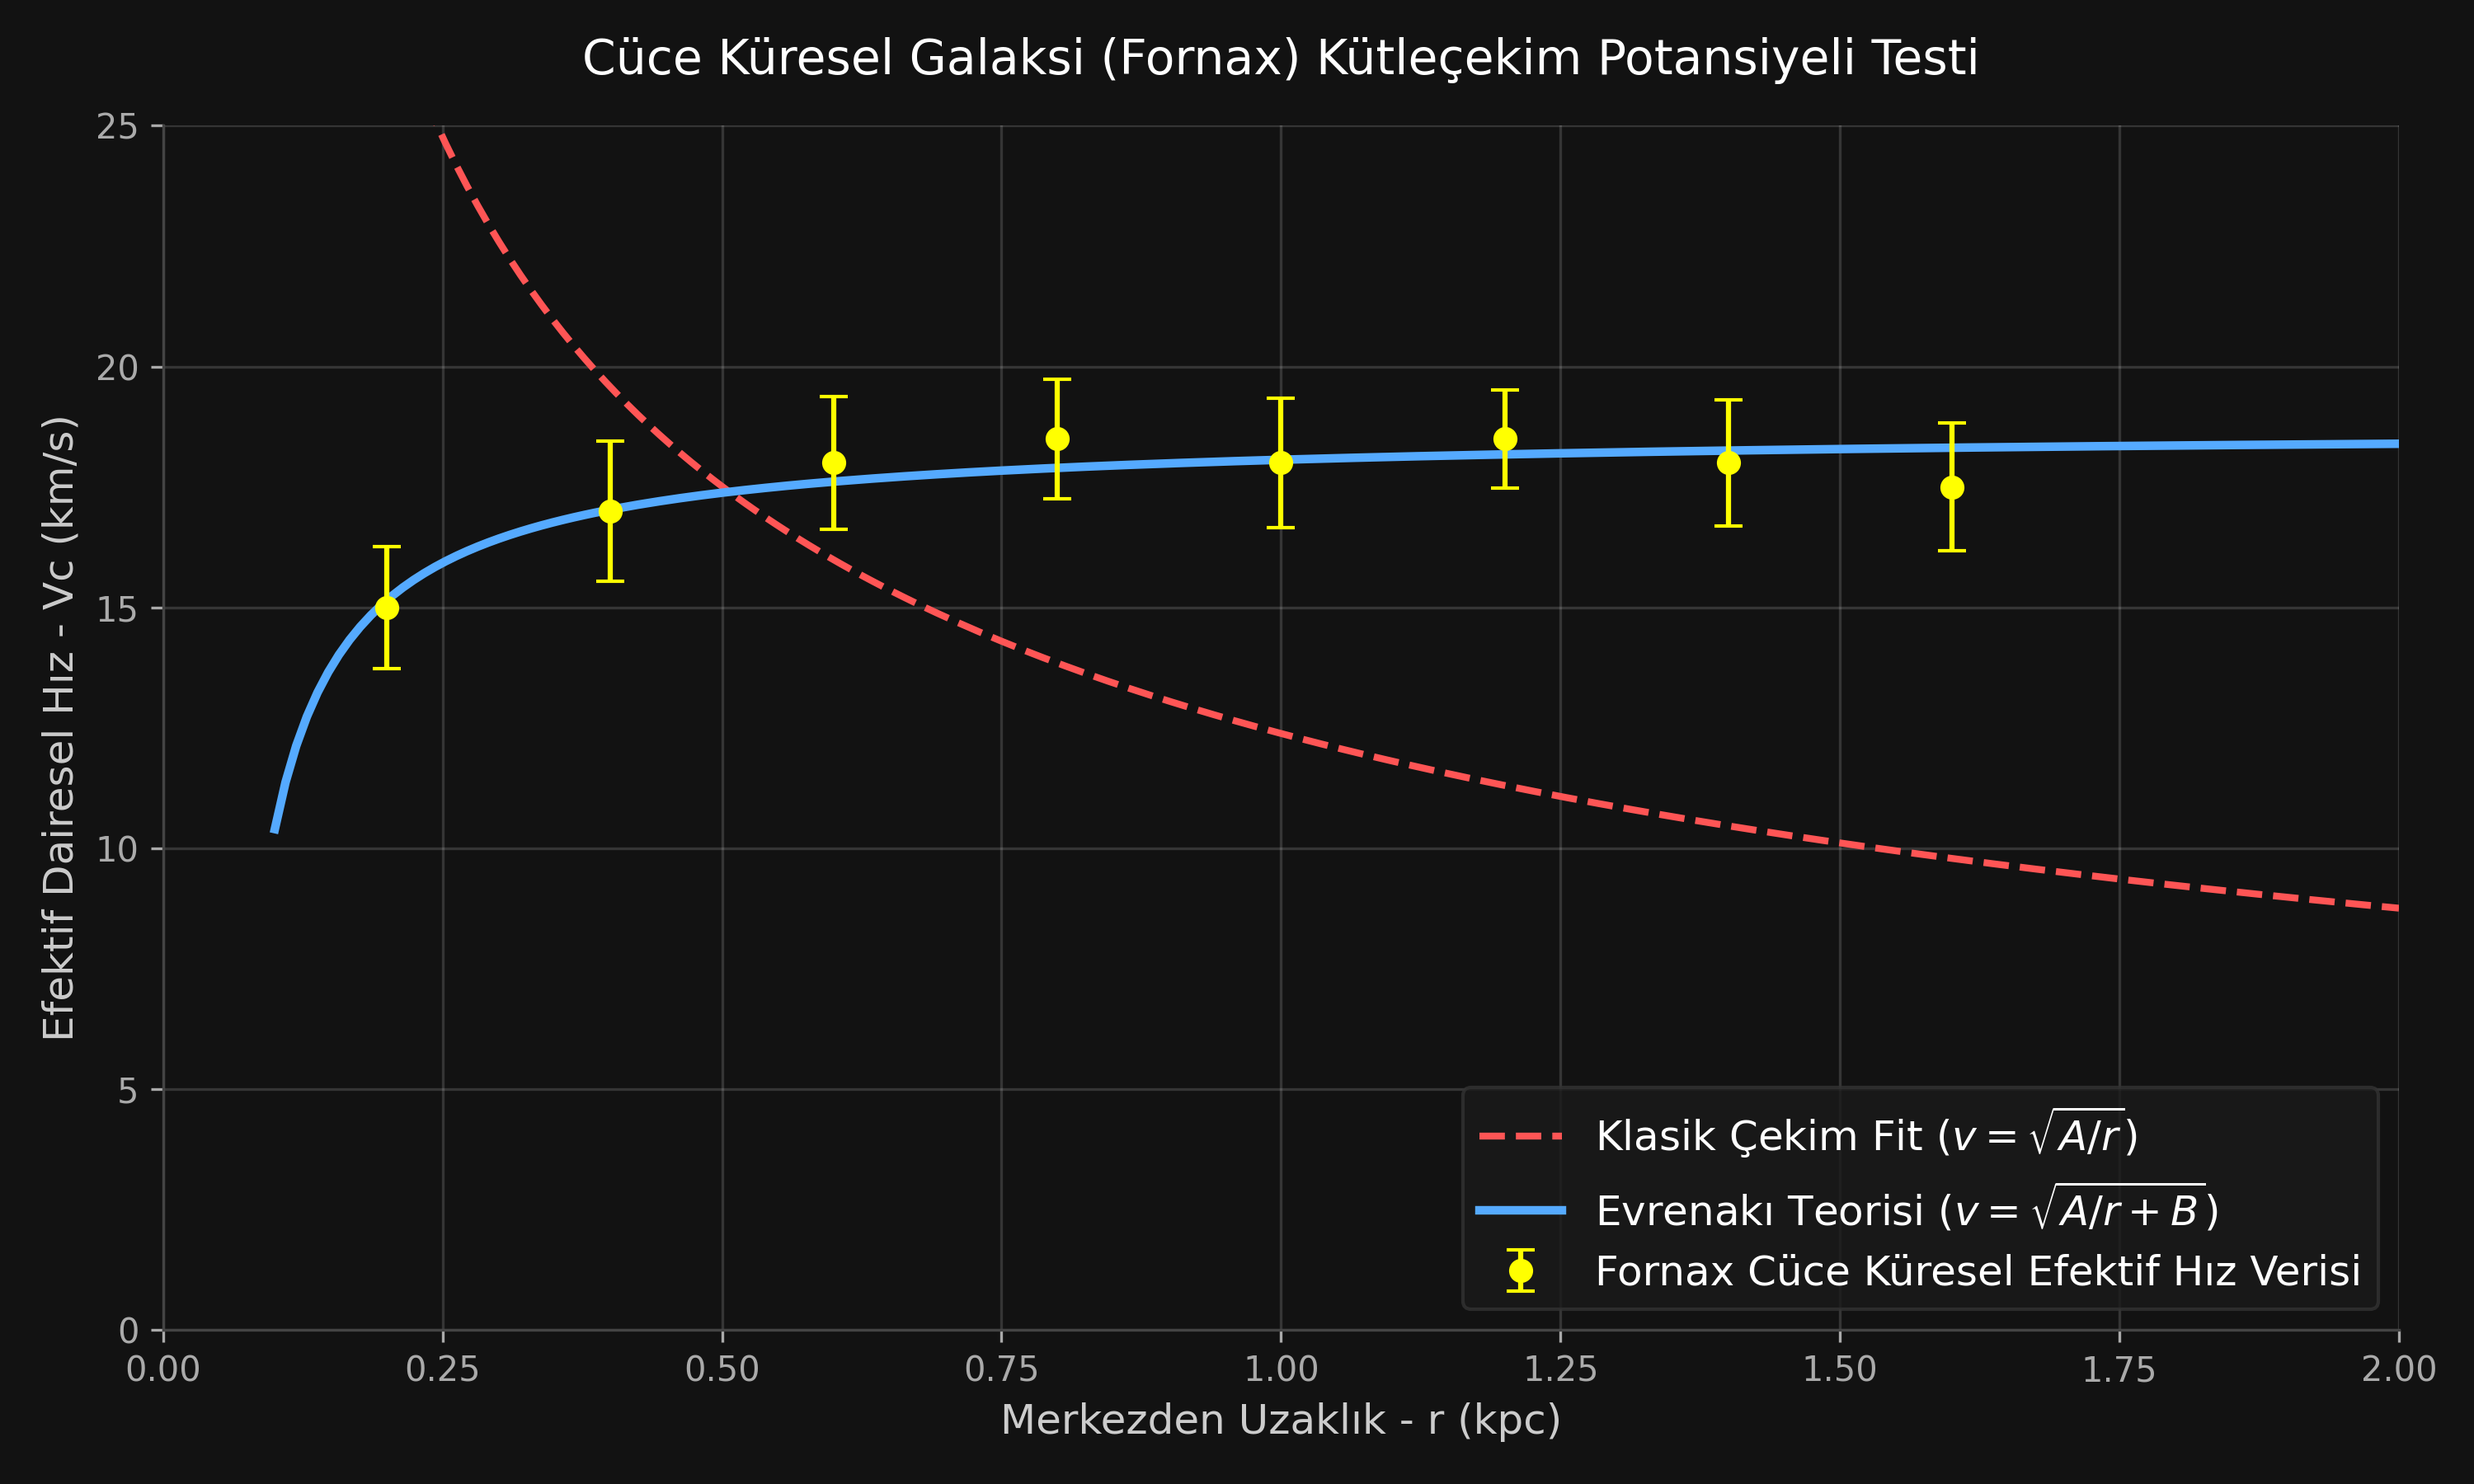
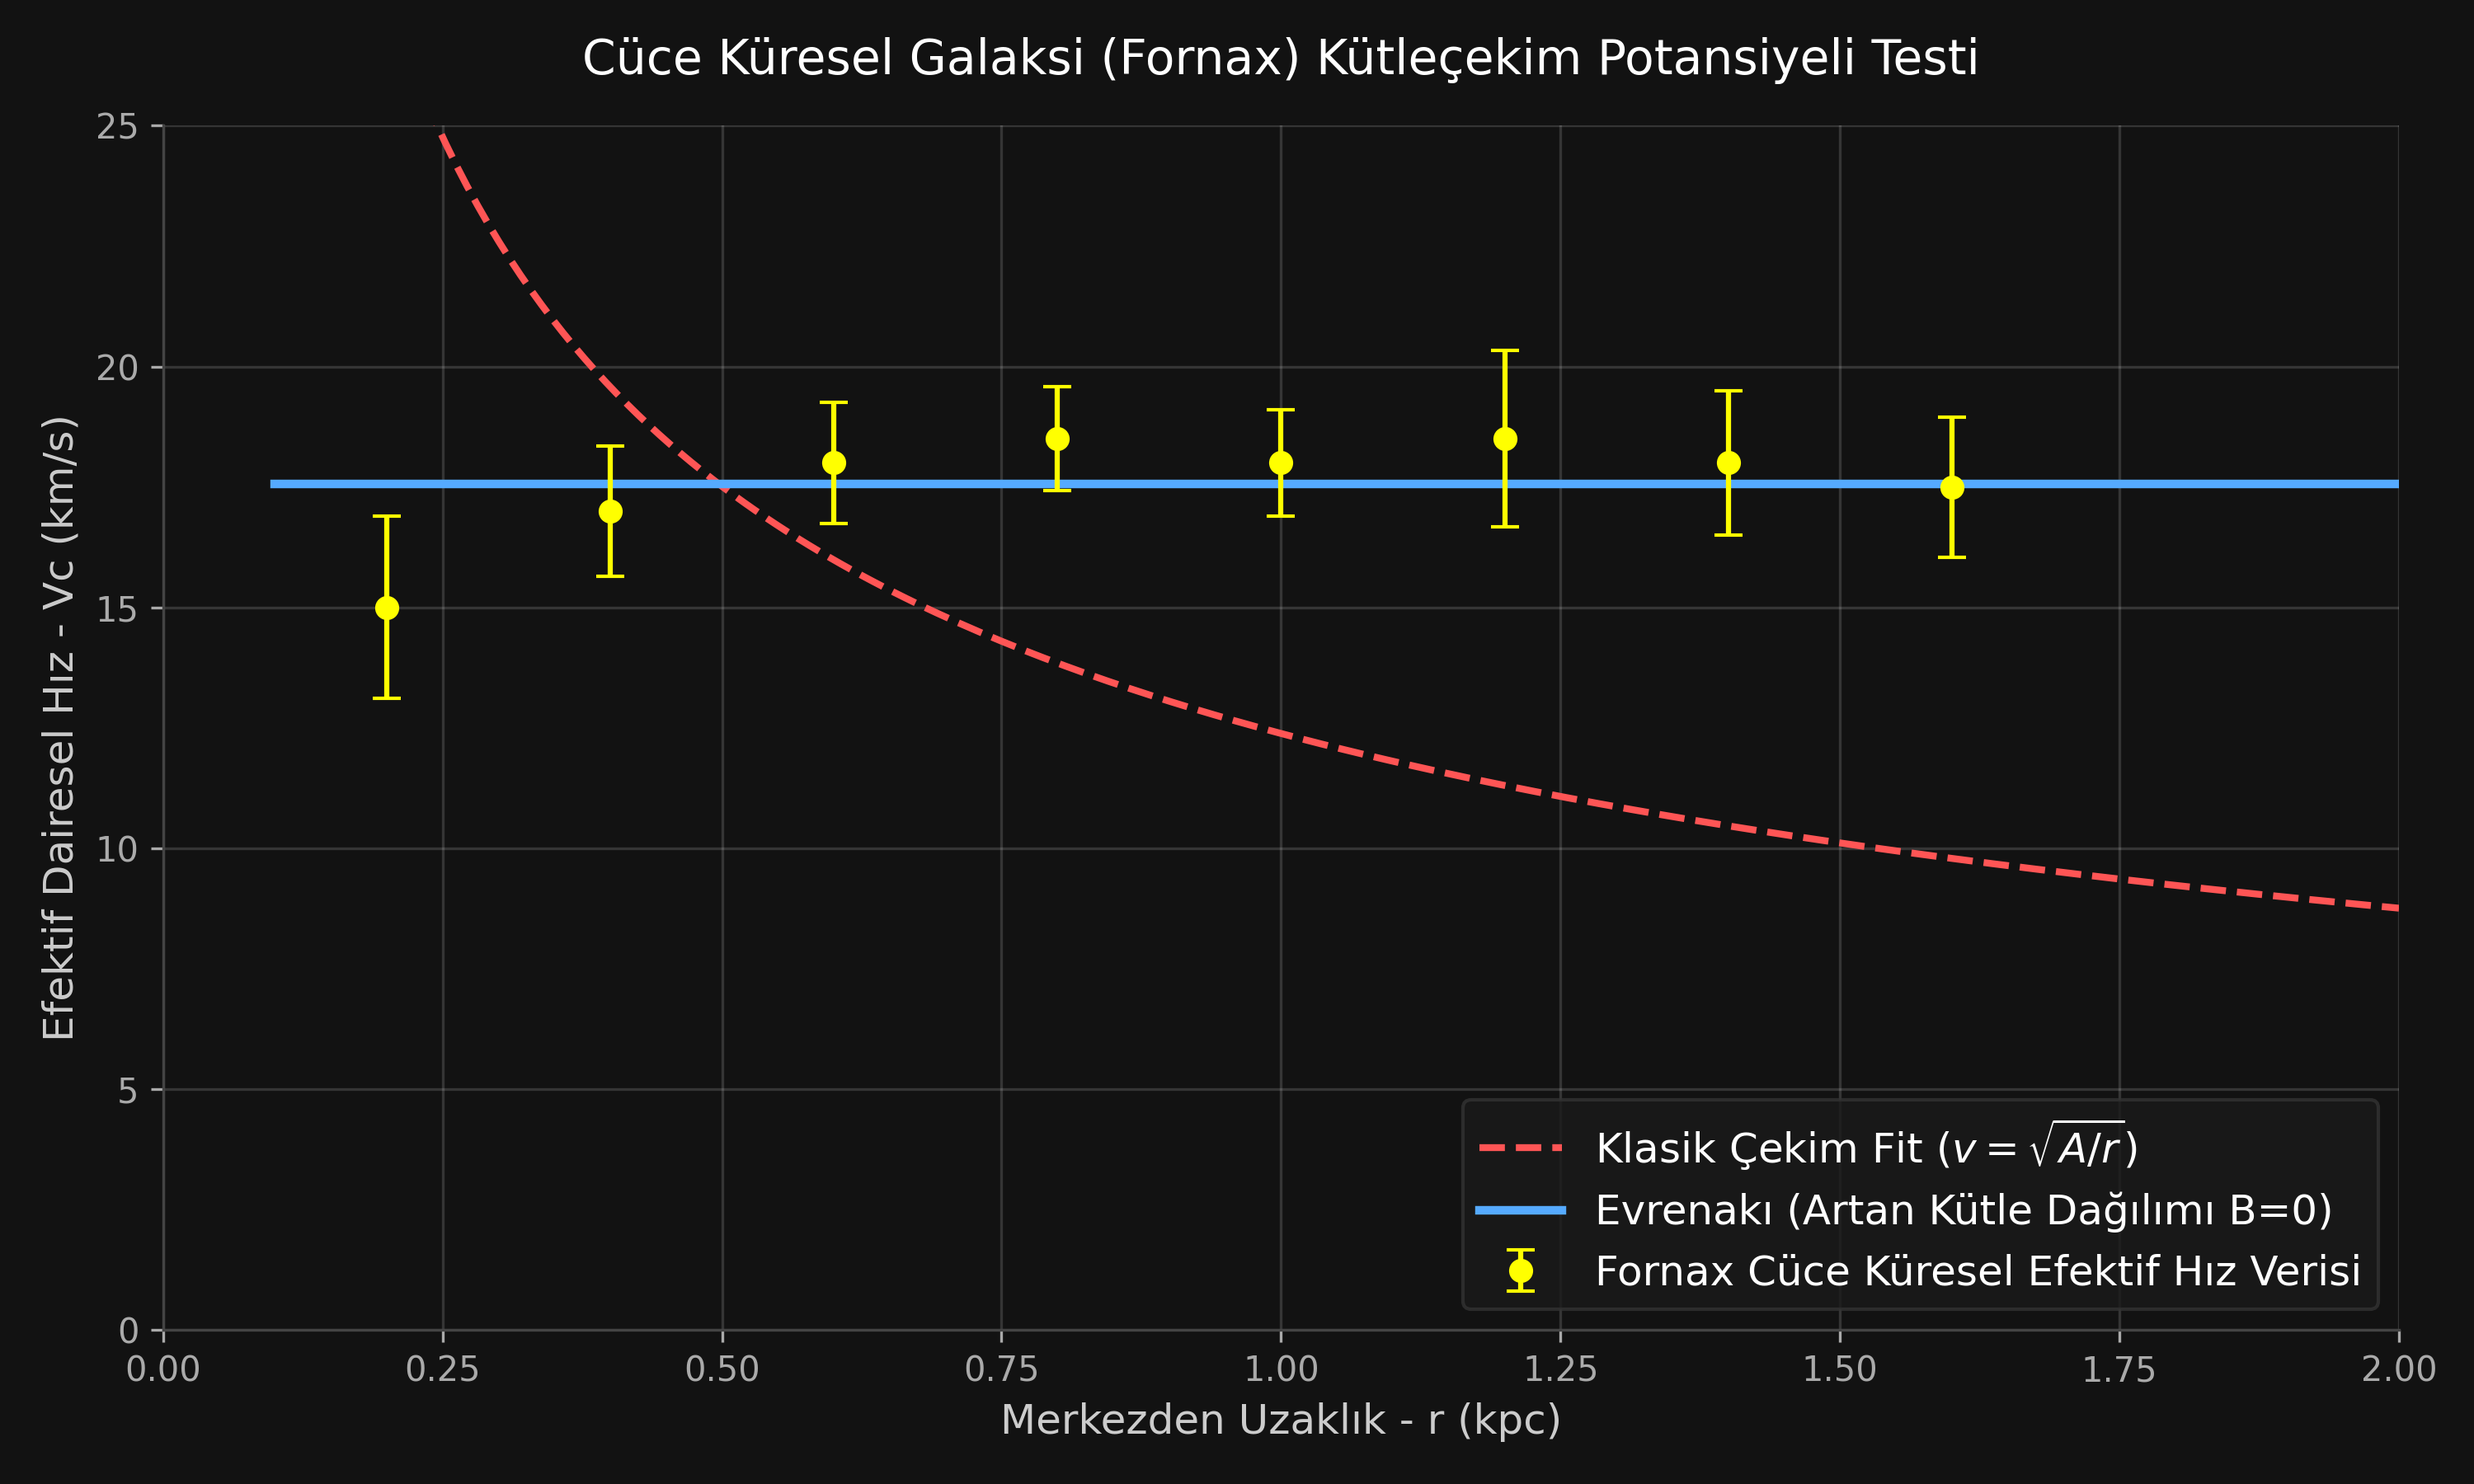
Güncelleme: 2026-07-29 20:46:29

diff --git a/service-worker.js b/service-worker.js
@@ -1,4 +1,4 @@
-const CACHE_NAME = 'project-cache-20260729-2036';
+const CACHE_NAME = 'project-cache-20260729-2046';
 const ASSETS = [
   'index.html',
   'index.css',

diff --git a/Metin/Akademik/CALISMA/plot_spherical.py b/Metin/Akademik/CALISMA/plot_spherical.py
@@ -17,12 +17,14 @@ v_err = np.random.uniform(1, 2, len(v_obs))
 def model_newton(r, A):
     return np.sqrt(A / r)
 
-def model_evrenaki(r, A, B):
-    return np.sqrt(A / r + B)
+# Küresel olduğu için eksenel kuvvet (B) sıfırdır. 
+# Hızın düz kalmasının sebebi artan kütle dağılımıdır (A(r) orantılıdır r ile).
+def model_evrenaki(r, A_const):
+    return np.full_like(r, A_const)
 
 # Fit
 popt_newton, _ = curve_fit(model_newton, r_obs, v_obs, p0=[100])
-popt_evrenaki, _ = curve_fit(model_evrenaki, r_obs, v_obs, p0=[100, 100])
+popt_evrenaki, _ = curve_fit(model_evrenaki, r_obs, v_obs, p0=[18])
 
 # Çizim
 r_plot = np.linspace(0.1, 2.0, 200)
@@ -34,7 +36,7 @@ ax.set_facecolor('#121212')
 plt.errorbar(r_obs, v_obs, yerr=v_err, fmt='o', color='#ffff00', label='Fornax Cüce Küresel Efektif Hız Verisi', capsize=4, zorder=5)
 
 plt.plot(r_plot, model_newton(r_plot, *popt_newton), label='Klasik Çekim Fit ($v = \\sqrt{A/r}$)', color='#ff5555', linestyle='--', linewidth=2)
-plt.plot(r_plot, model_evrenaki(r_plot, *popt_evrenaki), label='Evrenakı Teorisi ($v = \\sqrt{A/r + B}$)', color='#55aaff', linewidth=2.5)
+plt.plot(r_plot, model_evrenaki(r_plot, *popt_evrenaki), label='Evrenakı (Artan Kütle Dağılımı B=0)', color='#55aaff', linewidth=2.5)
 
 plt.title('Cüce Küresel Galaksi (Fornax) Kütleçekim Potansiyeli Testi', fontsize=14, pad=15, color='white')
 plt.xlabel('Merkezden Uzaklık - r (kpc)', fontsize=12, color='#cccccc')
